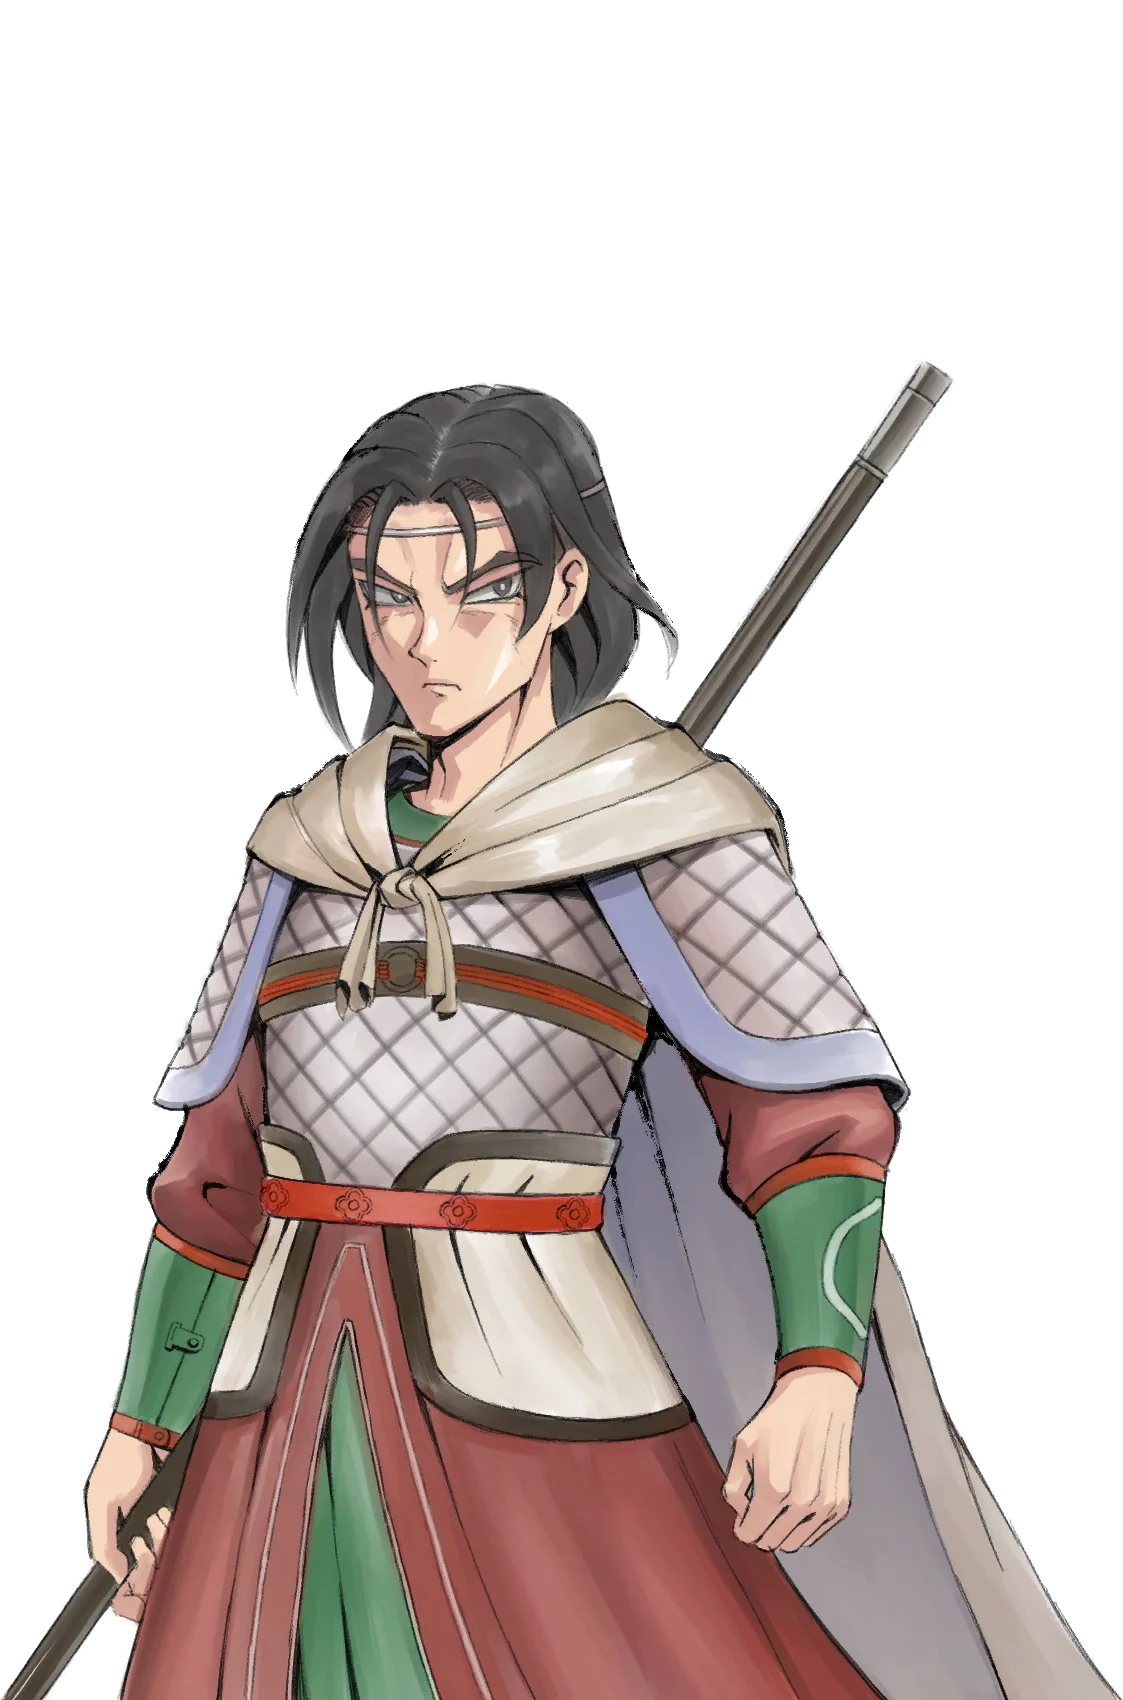
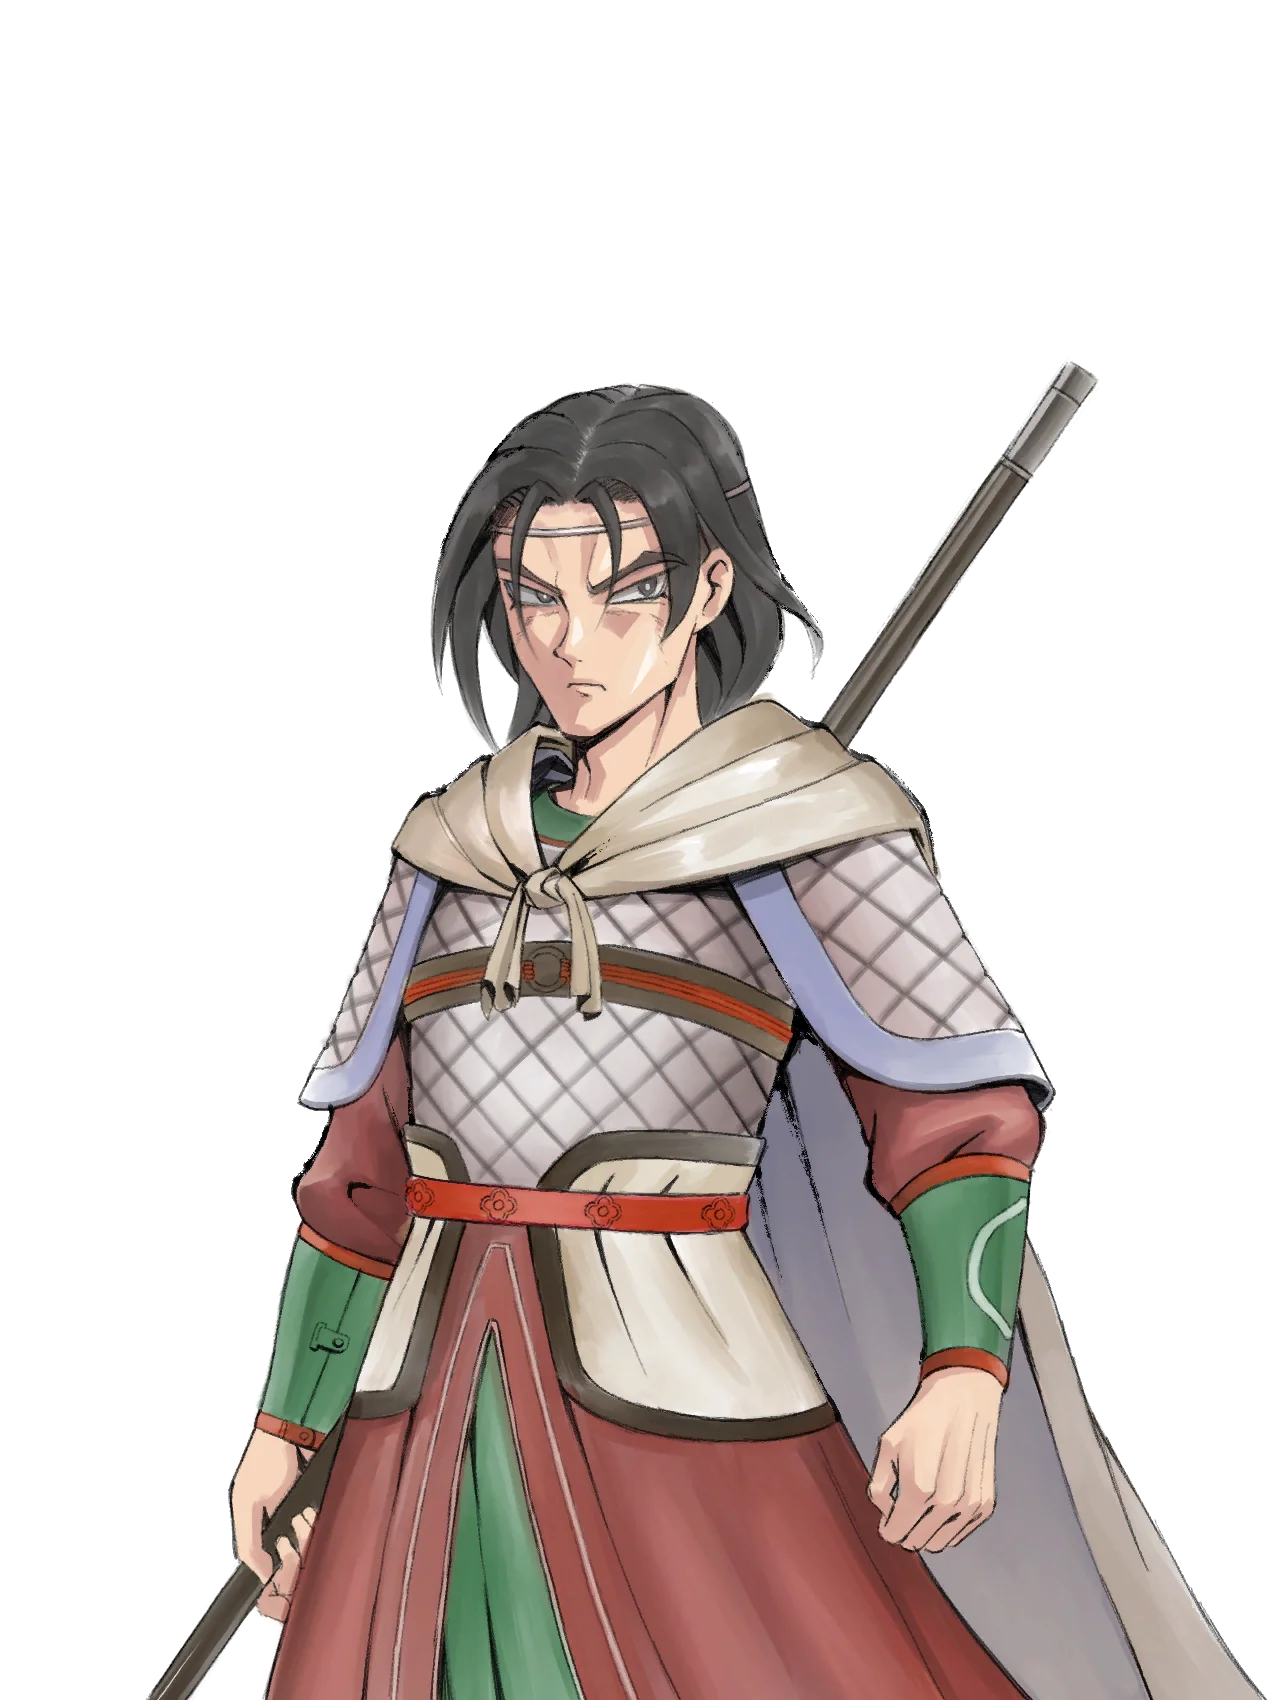
龍淵、石夫人、趙擴、譚霸刀、袁無憲各補上表情分頁，丁承烈的立繪換回原尺寸

diff --git a/docs/people/characters/special815.md b/docs/people/characters/special815.md
@@ -34,12 +34,24 @@ tags:
 					[[石公遠]] (丈夫)
 				</ChTd>
 			</ChTr>
-				<ChTr>
+			<ChTr>
 				<ChTd position='center'>
 					[[唐布衣]] (幫手)
 				</ChTd>
 			</ChTr>
 		</ChTable>
+	</ChTab>
+	<ChTab title="生氣">
+		<Ch src='/images/characters/special815/angry.webp' position='center'/>
+		<ChName nameZh='生氣' nameEn='Angry' position='right' />
+	</ChTab>
+	<ChTab title="哭泣">
+		<Ch src='/images/characters/special815/sad.webp' position='center'/>
+		<ChName nameZh='哭泣' nameEn='Cry' position='right' />
+	</ChTab>
+	<ChTab title="害羞">
+		<Ch src='/images/characters/special815/shy.webp' position='center'/>
+		<ChName nameZh='害羞' nameEn='Shy' position='right' />
 	</ChTab>
 </ChTabs>
 

diff --git a/docs/people/characters/special801.md b/docs/people/characters/special801.md
@@ -25,6 +25,18 @@ tags:
 			</ChTr>
 		</ChTable>
 	</ChTab>
+	<ChTab title="微笑">
+		<Ch src='/images/characters/special801/laugh.webp' position='center'/>
+		<ChName nameZh='微笑' nameEn='Smile' position='right' />
+	</ChTab>
+	<ChTab title="驚慌">
+		<Ch src='/images/characters/special801/nervous.webp' position='center'/>
+		<ChName nameZh='驚慌' nameEn='Panic' position='right' />
+	</ChTab>
+	<ChTab title="受傷">
+		<Ch src='/images/characters/special801/hurt.webp' position='center'/>
+		<ChName nameZh='受傷' nameEn='Injured' position='right' />
+	</ChTab>
 </ChTabs>
 <br><br>
 

diff --git a/docs/people/characters/special823.md b/docs/people/characters/special823.md
@@ -50,6 +50,14 @@ tags:
 			</ChTr>
 		</ChTable>
 	</ChTab>
+	<ChTab title="驚慌">
+		<Ch src='/images/characters/special823/nervous.webp' position='center'/>
+		<ChName nameZh='驚慌' nameEn='Panic' position='right' />
+	</ChTab>
+	<ChTab title="陰笑">
+		<Ch src='/images/characters/special823/gloomy2.webp' position='center'/>
+		<ChName nameZh='陰笑' nameEn='Sinister Smile' position='right' />
+	</ChTab>
 </ChTabs>
 <br><br>
 

diff --git a/docs/people/characters/special2.md b/docs/people/characters/special2.md
@@ -51,6 +51,14 @@ aside: false
 			</ChTr>
 		</ChTable>
 	</ChTab>
+	<ChTab title="微笑">
+		<Ch src='/images/characters/special2/laugh1.webp' position='center'/>
+		<ChName nameZh='微笑' nameEn='Smile' position='right' />
+	</ChTab>
+	<ChTab title="汗顏">
+		<Ch src='/images/characters/special2/nervous1.webp' position='center'/>
+		<ChName nameZh='汗顏' nameEn='Sweating' position='right' />
+	</ChTab>
 </ChTabs>
 <br><br>
 

diff --git a/docs/people/characters/special817.md b/docs/people/characters/special817.md
@@ -49,6 +49,10 @@ tags:
 			</ChTr>
 		</ChTable>
 	</ChTab>
+	<ChTab title="汗顏">
+		<Ch src='/images/characters/special817/nervous.webp' position='center'/>
+		<ChName nameZh='汗顏' nameEn='Sweating' position='right' />
+	</ChTab>
 </ChTabs>
 <br><br>
 
